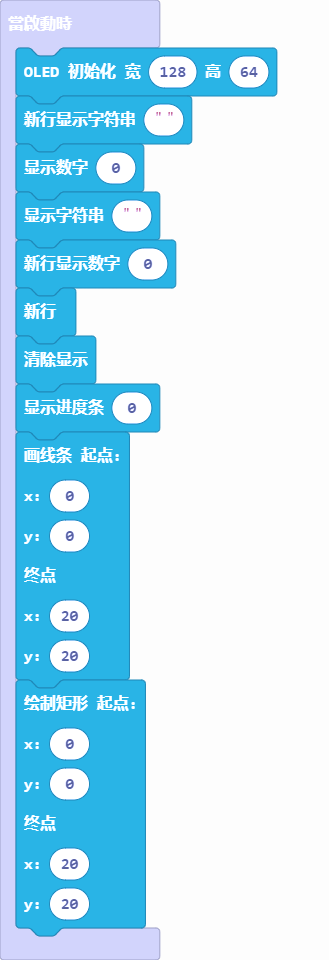
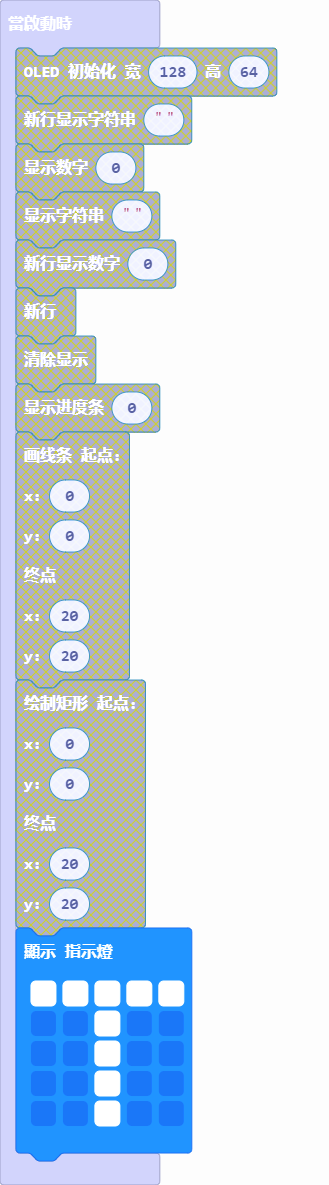
更新 main.blocks, main.ts

diff --git a/main.ts b/main.ts
@@ -1,23 +1,10 @@
-OLED.init(128, 64)
-OLED.writeStringNewLine("")
-OLED.writeNumNewLine(0)
-OLED.writeString("")
-OLED.writeNum(0)
-OLED.newLine()
-OLED.clear()
-OLED.drawLoading(0)
-OLED.drawLine(
-0,
-0,
-20,
-20
-)
-OLED.drawRectangle(
-0,
-0,
-20,
-20
-)
+basic.showLeds(`
+    # # # # #
+    . . # . .
+    . . # . .
+    . . # . .
+    . . # . .
+    `)
 basic.forever(function () {
 	
 })
